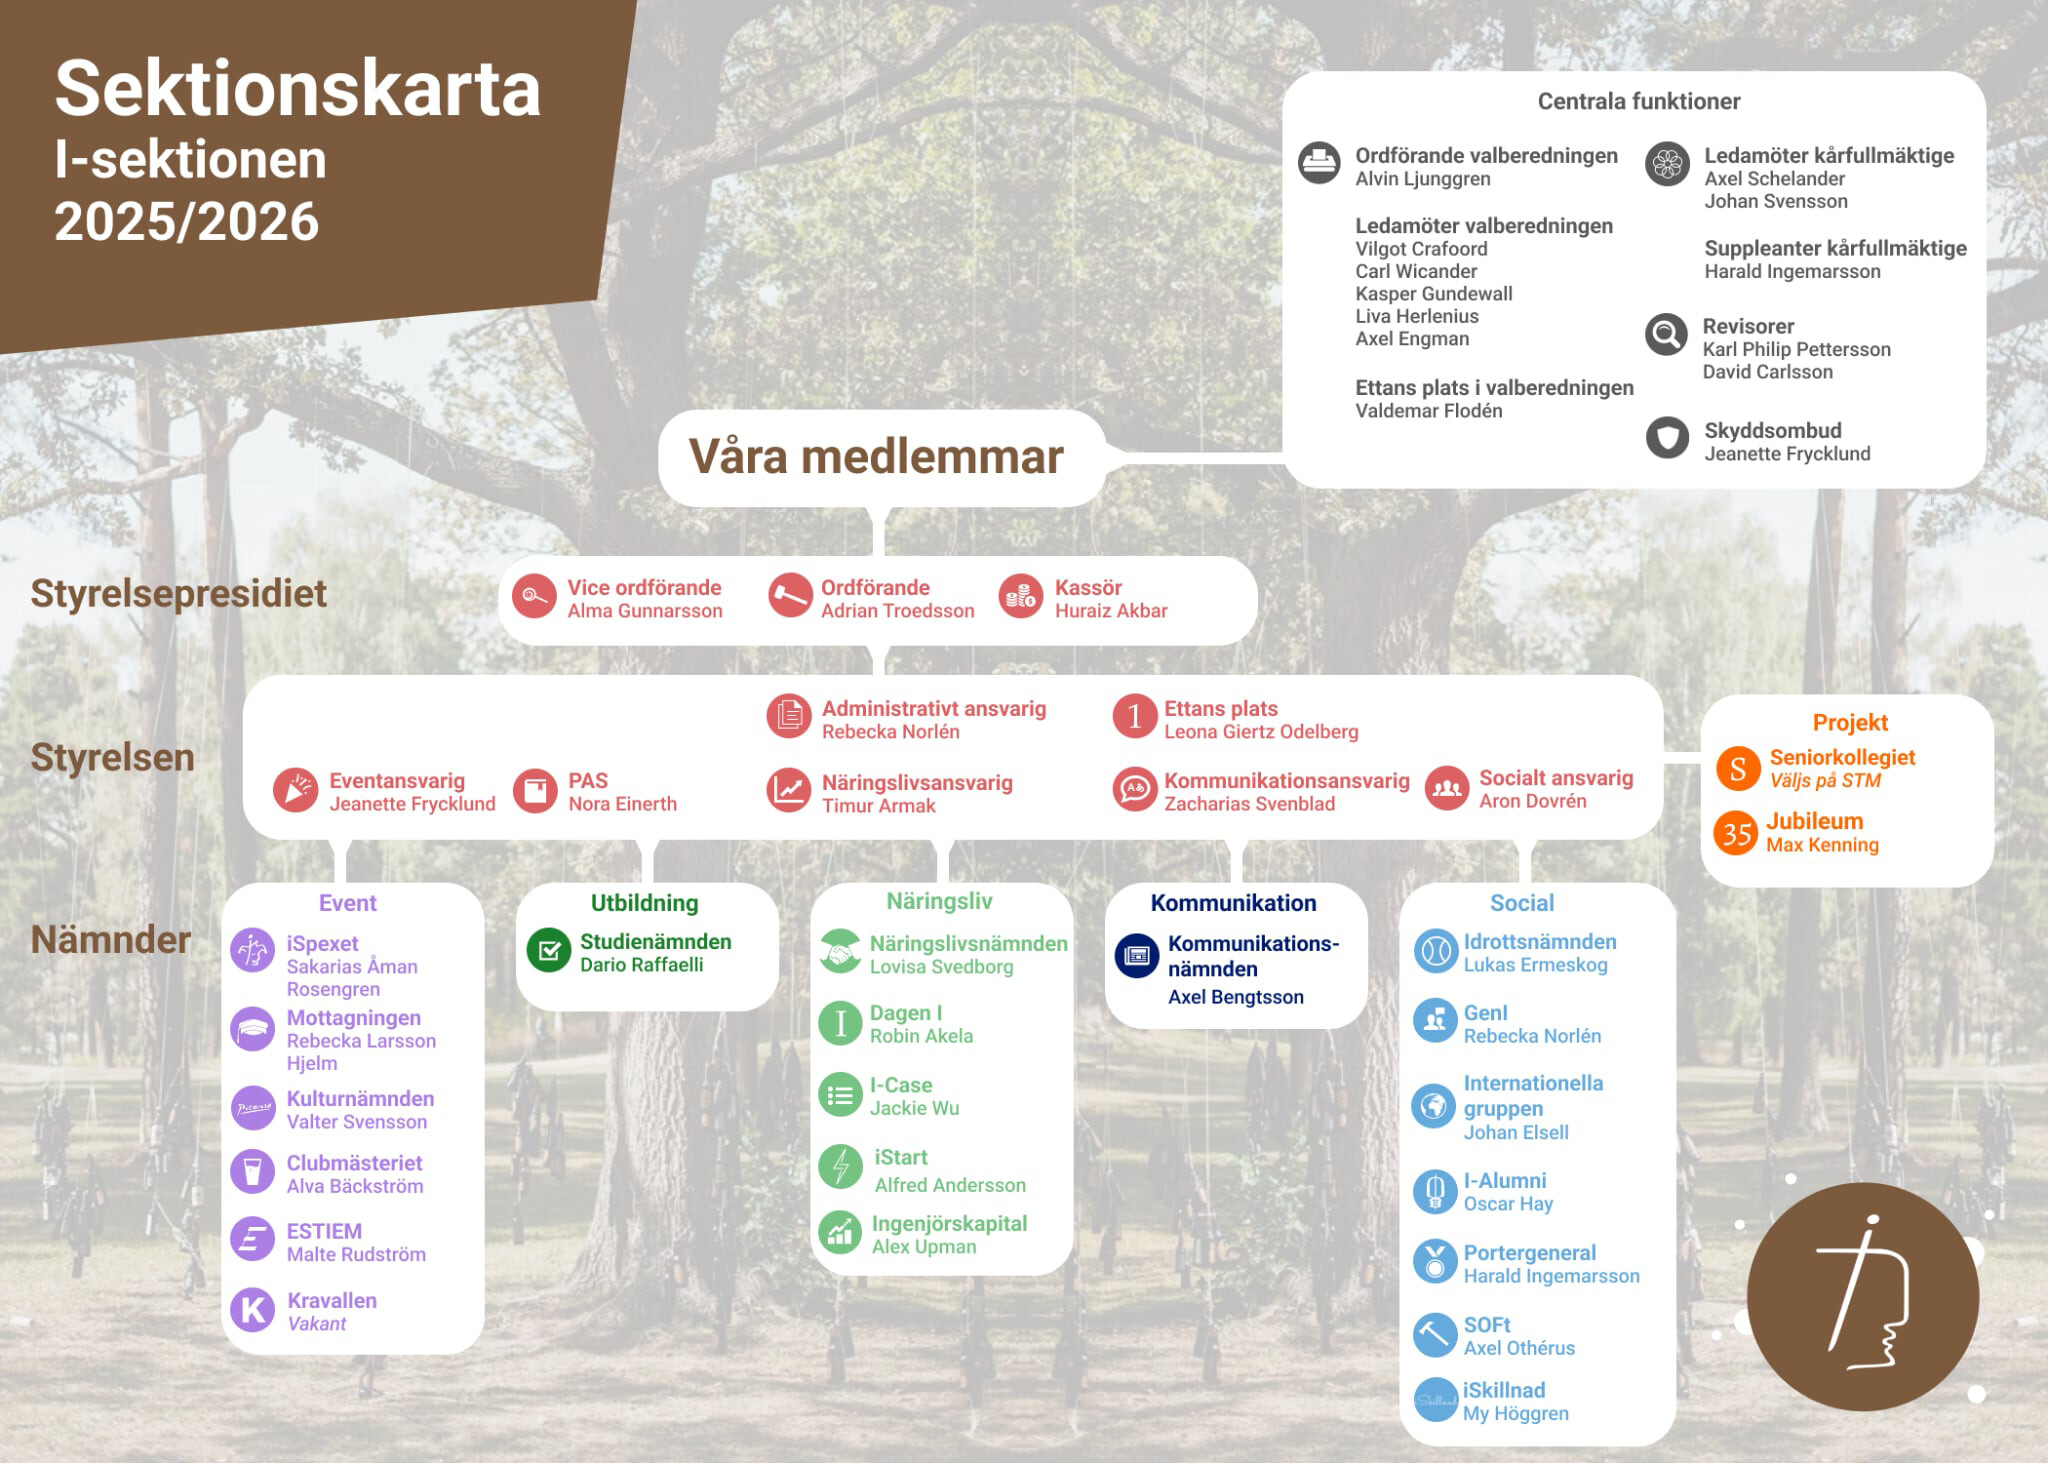
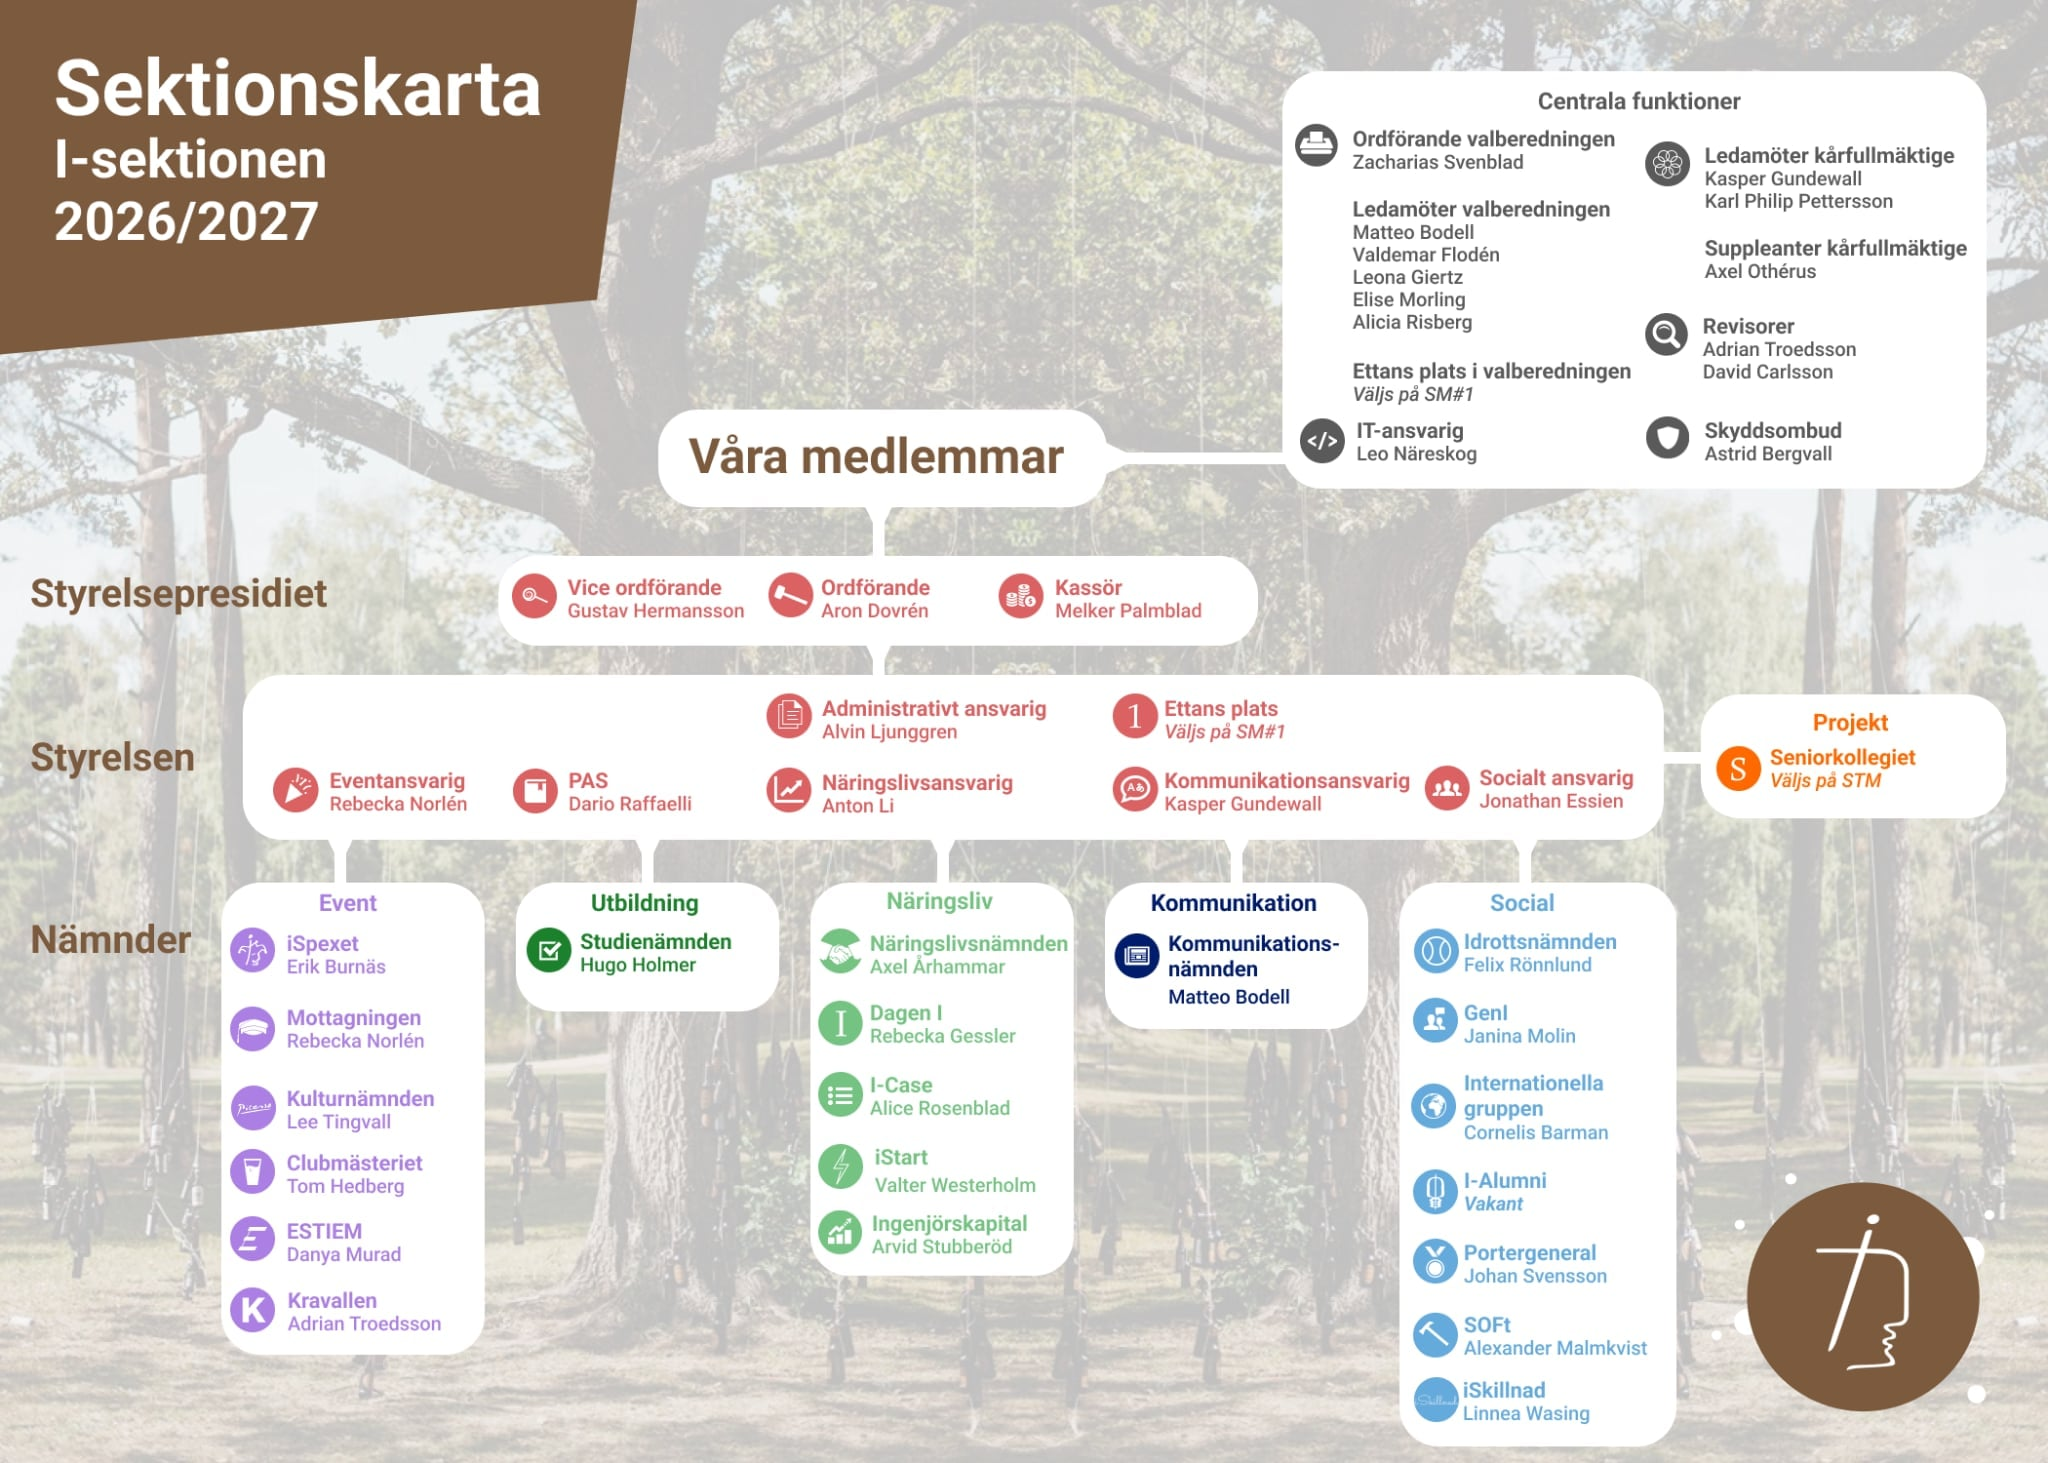
årgång updaterad

diff --git a/docs/central/karfullmaktige.md b/docs/central/karfullmaktige.md
@@ -5,10 +5,10 @@ pagination_prev: board
 
 Kårfullmäktige är sektionens möjlighet till att påverka THS (Tekniska Högskolans Studentkår) verksamhet. Kårfullmäktige är kårens högsta beslutande organ och består av 41 ledamöter från sektionerna. Kårfullmäktige sammanträder cirka 6 gånger per år och beslutar om bland annat budget, verksamhetsplan och verksamhetsberättelse. Kårfullmäktige väljer också kårens styrelse och revisorer. Om ni har frågor om Kårfullmäktige eller THS verksamhet, kontakta gärna någon av sektionens ledamöter i Kårfullmäktige.
 
-Under verksamhetsåret 2025/2026 har I-sektionen 3 ledamöter i Kårfullmäktige. Dessa är:
+Under verksamhetsåret 2026/2027 har I-sektionen 3 ledamöter i Kårfullmäktige. Dessa är:
 
-__Kasper Gundewall__ I-23,
-__Karl Philip Pettersson__ I-22,
-__Suppleant Axel Othérus__ I-22
+__Kasper Gundewall__ I-24,
+__Karl Philip Pettersson__ I-23,
+__Suppleant Axel Othérus__ I-23
 
 <img src={require("/static/img/profile.png").default} width="500"/>

diff --git a/i18n/en/docusaurus-plugin-content-docs/current/central/karfullmaktige.md b/i18n/en/docusaurus-plugin-content-docs/current/central/karfullmaktige.md
@@ -6,10 +6,10 @@ pagination_prev: board
 
 The Student Council is the chapter's opportunity to influence THS (Tekniska Högskolans Studentkår) activities. The Council is the highest decision-making body of the Union and consists of 41 members from the chapters. The Council meets about 6 times a year and decides on, among other things, the budget, operational plan and annual report. The Council also elects the union's board and auditors. If you have questions about the Council or THS activities, please contact one of the chapter members of the Council.
 
-During the financial year 2025/2026, the I-chapter has 3 members in the Council. These are:
+During the financial year 2026/2027, the I-chapter has 3 members in the Council. These are:
 
-__Kasper Gundewall__ I-23,
-__Karl Philip Pettersson__ I-22,
-__Suppleant Axel Othérus__ I-22
+__Kasper Gundewall__ I-24,
+__Karl Philip Pettersson__ I-23,
+__Suppleant Axel Othérus__ I-23
 
 <img src={require("/static/img/profile.png").default} width="500"/>

diff --git a/docs/business/dageni.md b/docs/business/dageni.md
@@ -6,9 +6,9 @@ Under Eventveckan, veckan innan Dagen I, händer det mycket kul, som frukost- oc
 Vår målsättning är att skapa en karriärmässa med ett brett urval av företag som speglar de områden du studerar och vill arbeta inom efter examen. Dagen - I består av ca 40 medlemmar som tillsammans jobbar mot en händelsefylld vecka.
 
 Om du är intresserad av att veta mer om Dagen I kan du antingen besöka www.dageni.se, eller kontakta projektledaren på projektledare@dageni.se
-### Projektledare Dagen I 2025/2026
+### Projektledare Dagen I 2026/2027
 
-__Rebecka Gessler__ I-24, dageni@iare.nu    
+__Rebecca Gessler__ I-25, dageni@iare.nu    
 
 <img src={require("/static/img/profile.png").default} width="230"/>
 

diff --git a/docs/event/ispexet.md b/docs/event/ispexet.md
@@ -5,12 +5,12 @@ iSpexet är Industriell ekonomis sektionsspex och bildades år 1997. Ett spex ä
 
 Om du gillar studentliv, gemenskap och framför allt om du gillar att ha kul så är iSpexet gruppen för dig!
 
-Spexdirecteur och nämndansvarig 2025/2026 är Erik Burnäs, I-22. För mer information om iSpexet, besök vår Facebooksida eller www.ispexet.iare.se.
+Spexdirecteur och nämndansvarig 2026/2027 är Erik Burnäs, I-23. För mer information om iSpexet, besök vår Facebooksida eller www.ispexet.iare.se.
 
 *iSpexet – för ett riktigt roligt och studentikost år på KTH!*
 
 ### Directeur
 
-__Erik Burnäs__ I-22
+__Erik Burnäs__ I-23
 
 <img src={require("/static/img/profile.png").default} width="230"/>

diff --git a/i18n/en/docusaurus-plugin-content-docs/current/event/ispexet.md b/i18n/en/docusaurus-plugin-content-docs/current/event/ispexet.md
@@ -5,12 +5,12 @@ iSpexet is Industrial Economics' chapter spex and was formed in 1997. A spex is 
 
 If you like student life, community and above all if you like to have fun, then iSpexet is the group for you!
 
-Spex director and committee manager 2025/2026 is Erik Burnäs, I-22. For more information about iSpexet, visit our Facebook page or www.ispexet.iare.se.
+Spex director and committee manager 2026/2027 is Erik Burnäs, I-23. For more information about iSpexet, visit our Facebook page or www.ispexet.iare.se.
 
 *iSpexet – for a really fun and student-friendly year at KTH!*
 
 ### Directeur
 
-__Erik Burnäs__ I-22
+__Erik Burnäs__ I-23
 
 <img src={require("/static/img/profile.png").default} width="230"/>

diff --git a/docs/central/skyddsombud.md b/docs/central/skyddsombud.md
@@ -6,6 +6,6 @@ Ett studerandeskyddsombud har samma rättigheter och skyldigheter som anställda
 
 Till Skyddsombudet kan man vända sig om man vill anmäla incidenter, både i den fysiska (till exempel sektionslokalen eller andra lokaler på campus) och den psykosociala arbetsmiljön (till exempel lärare som inte beter sig rättvist, kränkningar eller sexuella övergrepp), om man har frågor kring trygghets- och välmåendearbetet på sektionen eller om man helt enkelt vill ha någon att prata med.
 
-__Astrid Bergvall__ I-23, skyddsombud@iare.nu
+__Astrid Bergvall__ I-25, skyddsombud@iare.nu
 
 <img src={require("/static/img/profile.png").default} width="230"/>

diff --git a/i18n/en/docusaurus-plugin-content-docs/current/central/skyddsombud.md b/i18n/en/docusaurus-plugin-content-docs/current/central/skyddsombud.md
@@ -6,6 +6,6 @@ A student safety representative has the same rights and obligations as an employ
 
 You can turn to the Safety Representative if you want to report incidents, both in the physical (for example, the chapter room or other premises on campus) and the psychosocial work environment (for example, teachers who do not behave fairly, violations or sexual abuse), if you have questions about the safety and well-being work at the chapter or if you simply want someone to talk to.
 
-__Astrid Bergvall__ I-23, skyddsombud@iare.nu
+__Astrid Bergvall__ I-25, skyddsombud@iare.nu
 
 <img src={require("/static/img/profile.png").default} width="230"/>

diff --git a/i18n/en/docusaurus-plugin-content-docs/current/business/dageni.md b/i18n/en/docusaurus-plugin-content-docs/current/business/dageni.md
@@ -7,8 +7,8 @@ Our goal is to create a career fair with a wide selection of companies that repr
 
 If you would like to know more about Dagen I, you can either visit www.dageni.se, or contact the project manager at projektledare@dageni.se.
 
-### Project Manager Dagen-I 2025/2026
+### Project Manager Dagen-I 2026/2027
 
-__Rebecka Gessler__ I-24, dageni@iare.nu 
+__Rebecca Gessler__ I-25, dageni@iare.nu 
 
 <img src={require("/static/img/profile.png").default} width="230"/>

diff --git a/docs/social/internationalgroup.md b/docs/social/internationalgroup.md
@@ -8,6 +8,6 @@ Internationella gruppen är I-sektionens nämnd som står för inkludering av de
 I nuläget har internationella gruppen 30 medlemmar och organisationen är decentraliserad och dynamisk för att alla ska kunna vara med och komma med idéer och  ta egna initiativ.
 ### Ordförande
 
-__Cornelis Barman__ I-24, internationellt@iare.nu
+__Cornelis Barman__ I-25, internationellt@iare.nu
 
 <img src={require("/static/img/profile.png").default} width="230"/>

diff --git a/docs/social/idrottsnamnden.md b/docs/social/idrottsnamnden.md
@@ -8,6 +8,6 @@ Idrottsnämndens uppdrag är att erbjuda I-sektionens medlemmar ett brett utbud 
 Några exempel på uppskattade aktiviteter som Idrottsnämnden anordnar under året är fotbollsmatcherna mot Handelshögskolan och Indek i Uppsala, skidresan till Alperna och löpgruppen I-run.
 ### Ordförande
 
-__Felix Rönnlund__ I-24, idrott@iare.nu
+__Felix Rönnlund__ I-25, idrott@iare.nu
 
 <img src={require("/static/img/profile.png").default} width="230"/>

diff --git a/i18n/en/docusaurus-plugin-content-docs/current/social/internationalgroup.md b/i18n/en/docusaurus-plugin-content-docs/current/social/internationalgroup.md
@@ -8,6 +8,6 @@ The International Group is the committee within the I-Chapter responsible for th
 Currently, the International Group has 30 members, and the organization is decentralized and dynamic, allowing members to contribute ideas and take their own initiatives.
 ### President
 
-__Cornelis Barman__ I-24, internationellt@iare.nu
+__Cornelis Barman__ I-25, internationellt@iare.nu
 
 <img src={require("/static/img/profile.png").default} width="230"/>

diff --git a/docs/social/geni.md b/docs/social/geni.md
@@ -14,6 +14,6 @@ Om du vill arbeta med JML-frågor, anordna roliga event och vara med och bidra t
 Tveka inte att höra av sig på geni@iare.nu om du har synpunkter eller vill veta mer om vårt arbete! 
 Du kan även lämna anonym feedback via vårt kontaktformulär: https://forms.gle/MsUj8ZpcZfRuzLjr9 
 
-__Janina Molin__ I-23, geni@iare.nu
+__Janina Molin__ I-25, geni@iare.nu
 
 <img src={require("/static/img/profile.png").default} width="230"/>
